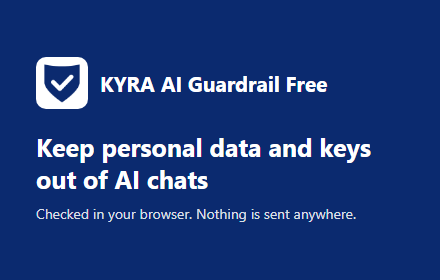
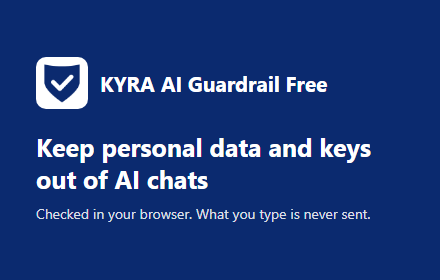
Make the store summary and promo tile match what a connected browser reports

Changed region(s): [[0.4432, 0.7429, 0.8568, 0.8]]

diff --git a/scripts/store_screenshots.py b/scripts/store_screenshots.py
@@ -57,7 +57,7 @@ TEXT = {
         "warn": "Please call Ms. Kim back on 010-1234-5678 about the renewal.",
         "block": "Customer Kim Minsu, resident number 900101-1234567, asked for a refund.",
         "org": "Acme", "rule": "Project names", "keywords": "apollo, confidential",
-        "tagline": "Keep personal data and keys out of AI chats", "sub": "Checked in your browser. Nothing is sent anywhere.",
+        "tagline": "Keep personal data and keys out of AI chats", "sub": "Checked in your browser. What you type is never sent.",
     },
     "ko": {
         "locale": "ko-KR", "lang": "ko", "q": "이 고객 메모를 정리해 줄 수 있나요?",
@@ -65,7 +65,7 @@ TEXT = {
         "warn": "김 과장님께 010-1234-5678 번호로 갱신 건 회신 부탁드립니다.",
         "block": "고객 김민수, 주민등록번호 900101-1234567, 환불 요청 건입니다.",
         "org": "Acme", "rule": "프로젝트 이름", "keywords": "apollo, 대외비",
-        "tagline": "AI 대화에 개인정보와 키가 들어가지 않도록", "sub": "브라우저 안에서 검사. 외부 전송 없음.",
+        "tagline": "AI 대화에 개인정보와 키가 들어가지 않도록", "sub": "브라우저 안에서 검사. 입력 내용 외부 전송 없음.",
     },
 }
 
@@ -81,7 +81,7 @@ TILE = """<!doctype html><meta charset="utf-8">
 </style>
 <div class="brand"><img src="__ICON__" alt="">KYRA AI Guardrail Free</div>
 <h1>Keep personal data and keys out of AI chats</h1>
-<p>Checked in your browser. Nothing is sent anywhere.</p>"""
+<p>Checked in your browser. What you type is never sent.</p>"""
 
 STATE = {"page": ""}
 

diff --git a/store/listing.md b/store/listing.md
@@ -26,7 +26,7 @@ Regenerate the images with `python scripts/store_screenshots.py`.
 **Name:** KYRA AI Guardrail Free
 
 **Summary (132 characters at most):**
-Checks what you send to AI chats for personal data and keys, in your browser. Warn, mask or block. Nothing is sent anywhere.
+Checks what you send to AI chats for personal data and keys, in your browser. Warn, mask or block. What you type is never sent.
 
 **Description:**
 
@@ -66,7 +66,7 @@ Open source under the Apache License 2.0: https://github.com/fankh/kyra-guard
 **이름:** KYRA AI Guardrail Free
 
 **요약 (132자 이내):**
-AI 대화로 보내는 내용의 개인정보와 키를 브라우저 안에서 검사. 경고, 마스킹 또는 차단. 외부 전송 없음.
+AI 대화로 보내는 내용의 개인정보와 키를 브라우저 안에서 검사. 경고, 마스킹 또는 차단. 입력 내용 외부 전송 없음.
 
 **설명:**
 
